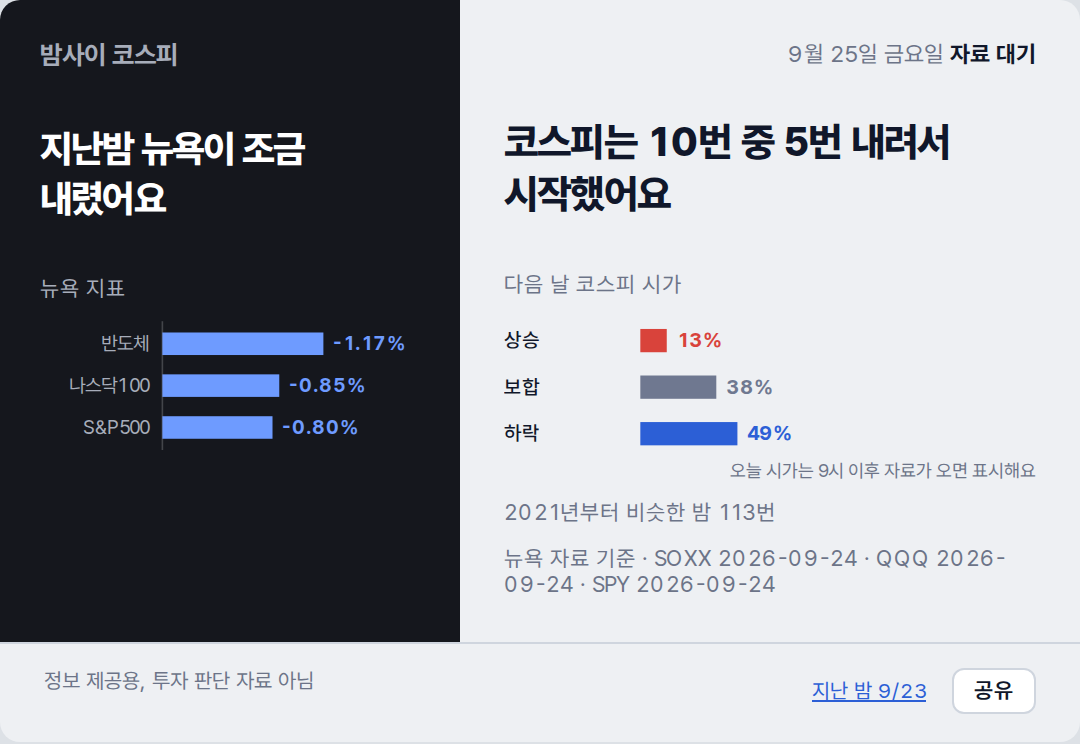
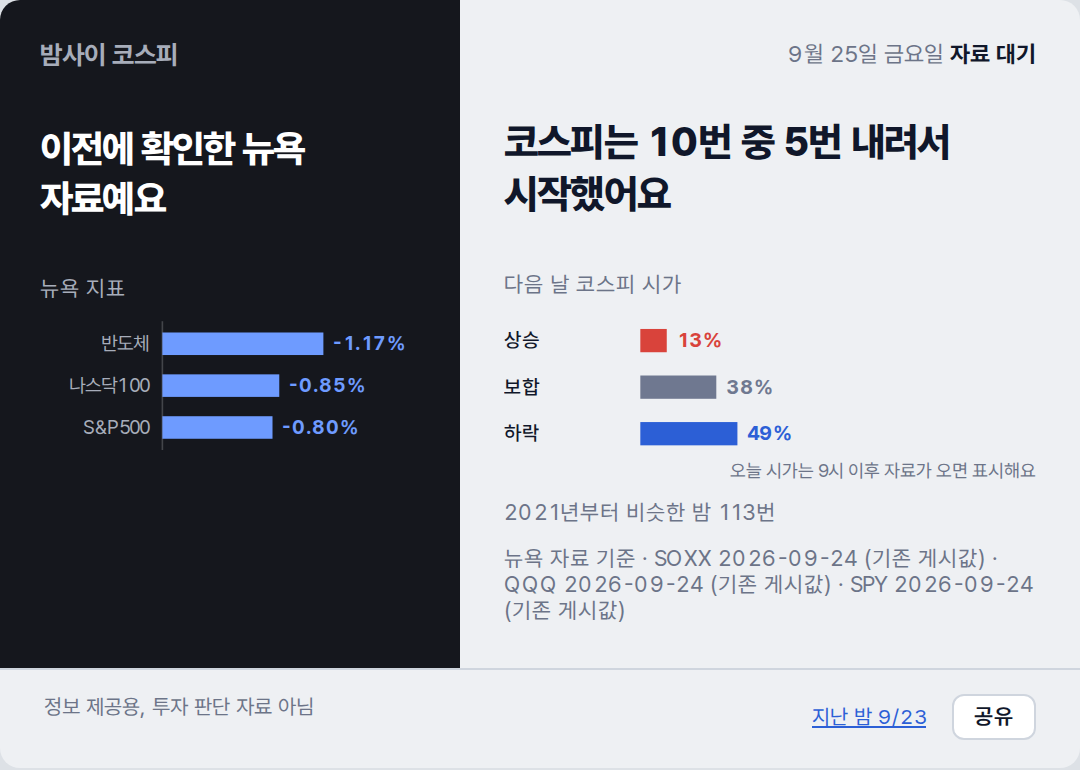
deploy: 96d35760b6398d8556fcb16894561d038e839a17

diff --git a/2026-09-25/index.html b/2026-09-25/index.html
@@ -2,7 +2,7 @@
 <title>밤사이 코스피 · 2026-09-25</title>
 <meta name="description" content="전일 코스피 마감에서 밤사이 뉴욕을 거쳐 오늘 코스피 시가까지, 한 장.">
 <meta property="og:type" content="article"><meta property="og:site_name" content="밤사이 코스피"><meta property="og:url" content="https://mjs0611.github.io/kospi-relay/2026-09-25/">
-<meta property="og:title" content="지난밤 뉴욕이 조금 내렸어요"><meta property="og:description" content="코스피는 10번 중 5번 내려서 시작했어요">
+<meta property="og:title" content="이전에 확인한 뉴욕 자료예요"><meta property="og:description" content="코스피는 10번 중 5번 내려서 시작했어요">
 <meta property="og:image" content="https://mjs0611.github.io/kospi-relay/2026-09-25/relay.png"><meta property="og:image:width" content="1080"><meta name="twitter:card" content="summary_large_image">
 <link rel="stylesheet" href="https://cdn.jsdelivr.net/gh/orioncactus/pretendard@v1.3.9/dist/web/variable/pretendardvariable-dynamic-subset.min.css">
 <style>
@@ -26,7 +26,7 @@ footer a{color:#2C5FD6}
 .share{margin-left:10px;border:1px solid #CFD5DE;background:#FFF;color:#10172A;border-radius:6px;padding:4px 10px;font:600 11px var(--sans);cursor:pointer}
 @media (max-width:480px){.sheet{grid-template-columns:1fr}.cond{margin-top:18px}.claim{margin-top:4px}}
 </style></head><body><div class="sheet">
-<section class="night"><p class="brand">밤사이 코스피</p><p class="cond">지난밤 뉴욕이 조금 내렸어요</p><p class="lab">뉴욕 지표</p><svg viewBox="0 0 236 84" xmlns="http://www.w3.org/2000/svg" font-family="var(--sans)" font-size="12">
+<section class="night"><p class="brand">밤사이 코스피</p><p class="cond">이전에 확인한 뉴욕 자료예요</p><p class="lab">뉴욕 지표</p><svg viewBox="0 0 236 84" xmlns="http://www.w3.org/2000/svg" font-family="var(--sans)" font-size="12">
 <line x1="76" y1="2" x2="76" y2="82" stroke="var(--rule)" stroke-width="1"/>
 <text x="68" y="20" text-anchor="end" fill="var(--muted)">반도체</text>
 <rect x="76" y="9" width="100.0" height="14" fill="var(--down)"/>
@@ -49,12 +49,12 @@ footer a{color:#2C5FD6}
 <rect x="82" y="65" width="58.4" height="14" fill="var(--down)"/>
 <text x="146.4" y="76" fill="var(--down)" font-weight="700">49%</text>
 <text x="320" y="98" text-anchor="end" fill="var(--muted)" font-size="11">오늘 시가는 9시 이후 자료가 오면 표시해요</text>
-</svg><p class="cap">2021년부터 비슷한 밤 113번</p><p class="cap">뉴욕 자료 기준 · SOXX 2026-09-24 · QQQ 2026-09-24 · SPY 2026-09-24</p></section>
+</svg><p class="cap">2021년부터 비슷한 밤 113번</p><p class="cap">뉴욕 자료 기준 · SOXX 2026-09-24 (기존 게시값) · QQQ 2026-09-24 (기존 게시값) · SPY 2026-09-24 (기존 게시값)</p></section>
 <footer><span>정보 제공용, 투자 판단 자료 아님</span><span style="white-space:nowrap"><a href="../2026-09-23/">지난 밤 9/23</a> <button class="share" type="button">공유</button></span></footer>
 <script>
 /* 공유: Web Share가 있으면 시스템 공유 시트, 없으면 링크 복사. 링크는 이 날짜 페이지(OG 카드 붙음) */
 document.querySelector('.share').addEventListener('click', async function () {
-  var url = 'https://mjs0611.github.io/kospi-relay/2026-09-25/', text = "지난밤 뉴욕이 조금 내렸어요. 코스피는 10번 중 5번 내려서 시작했어요";
+  var url = 'https://mjs0611.github.io/kospi-relay/2026-09-25/', text = "이전에 확인한 뉴욕 자료예요. 코스피는 10번 중 5번 내려서 시작했어요";
   try { if (navigator.share) { await navigator.share({ title: '밤사이 코스피', text: text, url: url }); return; } } catch (e) { return; }
   try { await navigator.clipboard.writeText(text + '
 ' + url); this.textContent = '링크 복사됨'; } catch (e) { location.href = url; }

diff --git a/index.html b/index.html
@@ -2,7 +2,7 @@
 <title>밤사이 코스피 · 2026-09-25</title>
 <meta name="description" content="전일 코스피 마감에서 밤사이 뉴욕을 거쳐 오늘 코스피 시가까지, 한 장.">
 <meta property="og:type" content="article"><meta property="og:site_name" content="밤사이 코스피"><meta property="og:url" content="https://mjs0611.github.io/kospi-relay/2026-09-25/">
-<meta property="og:title" content="지난밤 뉴욕이 조금 내렸어요"><meta property="og:description" content="코스피는 10번 중 5번 내려서 시작했어요">
+<meta property="og:title" content="이전에 확인한 뉴욕 자료예요"><meta property="og:description" content="코스피는 10번 중 5번 내려서 시작했어요">
 <meta property="og:image" content="https://mjs0611.github.io/kospi-relay/2026-09-25/relay.png"><meta property="og:image:width" content="1080"><meta name="twitter:card" content="summary_large_image">
 <link rel="stylesheet" href="https://cdn.jsdelivr.net/gh/orioncactus/pretendard@v1.3.9/dist/web/variable/pretendardvariable-dynamic-subset.min.css">
 <style>
@@ -26,7 +26,7 @@ footer a{color:#2C5FD6}
 .share{margin-left:10px;border:1px solid #CFD5DE;background:#FFF;color:#10172A;border-radius:6px;padding:4px 10px;font:600 11px var(--sans);cursor:pointer}
 @media (max-width:480px){.sheet{grid-template-columns:1fr}.cond{margin-top:18px}.claim{margin-top:4px}}
 </style></head><body><div class="sheet">
-<section class="night"><p class="brand">밤사이 코스피</p><p class="cond">지난밤 뉴욕이 조금 내렸어요</p><p class="lab">뉴욕 지표</p><svg viewBox="0 0 236 84" xmlns="http://www.w3.org/2000/svg" font-family="var(--sans)" font-size="12">
+<section class="night"><p class="brand">밤사이 코스피</p><p class="cond">이전에 확인한 뉴욕 자료예요</p><p class="lab">뉴욕 지표</p><svg viewBox="0 0 236 84" xmlns="http://www.w3.org/2000/svg" font-family="var(--sans)" font-size="12">
 <line x1="76" y1="2" x2="76" y2="82" stroke="var(--rule)" stroke-width="1"/>
 <text x="68" y="20" text-anchor="end" fill="var(--muted)">반도체</text>
 <rect x="76" y="9" width="100.0" height="14" fill="var(--down)"/>
@@ -49,12 +49,12 @@ footer a{color:#2C5FD6}
 <rect x="82" y="65" width="58.4" height="14" fill="var(--down)"/>
 <text x="146.4" y="76" fill="var(--down)" font-weight="700">49%</text>
 <text x="320" y="98" text-anchor="end" fill="var(--muted)" font-size="11">오늘 시가는 9시 이후 자료가 오면 표시해요</text>
-</svg><p class="cap">2021년부터 비슷한 밤 113번</p><p class="cap">뉴욕 자료 기준 · SOXX 2026-09-24 · QQQ 2026-09-24 · SPY 2026-09-24</p></section>
+</svg><p class="cap">2021년부터 비슷한 밤 113번</p><p class="cap">뉴욕 자료 기준 · SOXX 2026-09-24 (기존 게시값) · QQQ 2026-09-24 (기존 게시값) · SPY 2026-09-24 (기존 게시값)</p></section>
 <footer><span>정보 제공용, 투자 판단 자료 아님</span><span style="white-space:nowrap"><a href="./2026-09-23/">지난 밤 9/23</a> <button class="share" type="button">공유</button></span></footer>
 <script>
 /* 공유: Web Share가 있으면 시스템 공유 시트, 없으면 링크 복사. 링크는 이 날짜 페이지(OG 카드 붙음) */
 document.querySelector('.share').addEventListener('click', async function () {
-  var url = 'https://mjs0611.github.io/kospi-relay/2026-09-25/', text = "지난밤 뉴욕이 조금 내렸어요. 코스피는 10번 중 5번 내려서 시작했어요";
+  var url = 'https://mjs0611.github.io/kospi-relay/2026-09-25/', text = "이전에 확인한 뉴욕 자료예요. 코스피는 10번 중 5번 내려서 시작했어요";
   try { if (navigator.share) { await navigator.share({ title: '밤사이 코스피', text: text, url: url }); return; } } catch (e) { return; }
   try { await navigator.clipboard.writeText(text + '
 ' + url); this.textContent = '링크 복사됨'; } catch (e) { location.href = url; }
